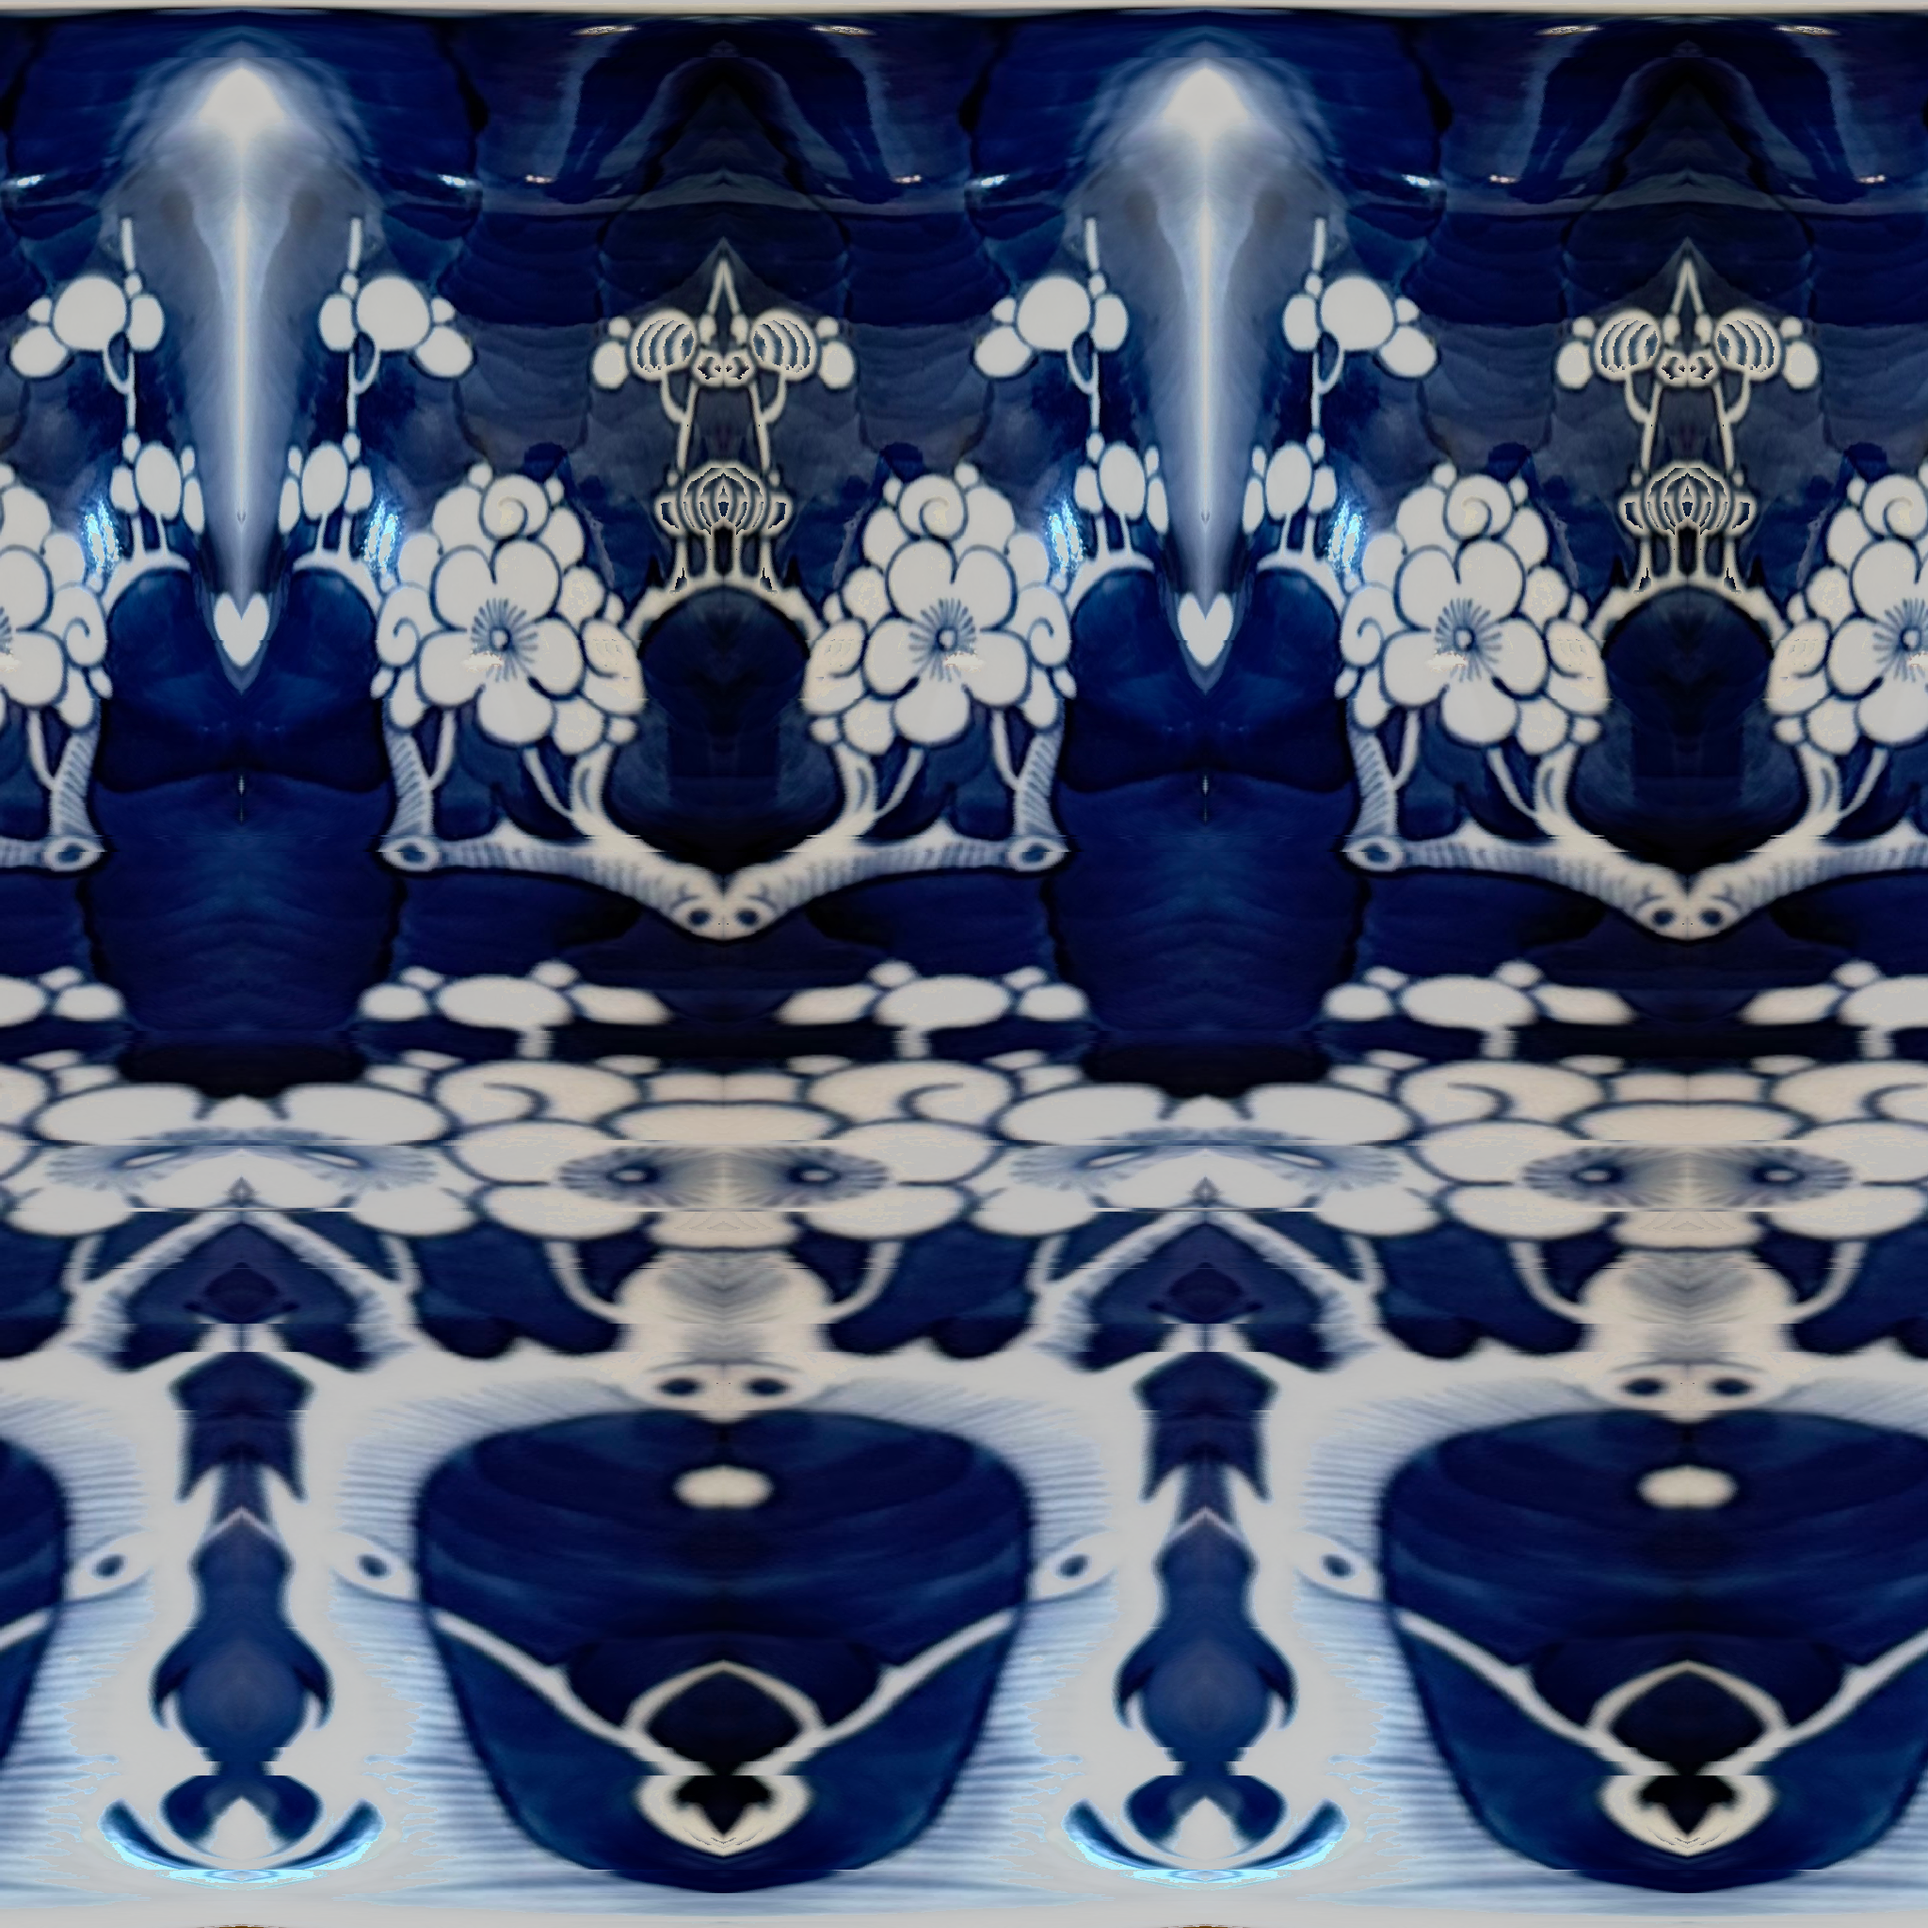
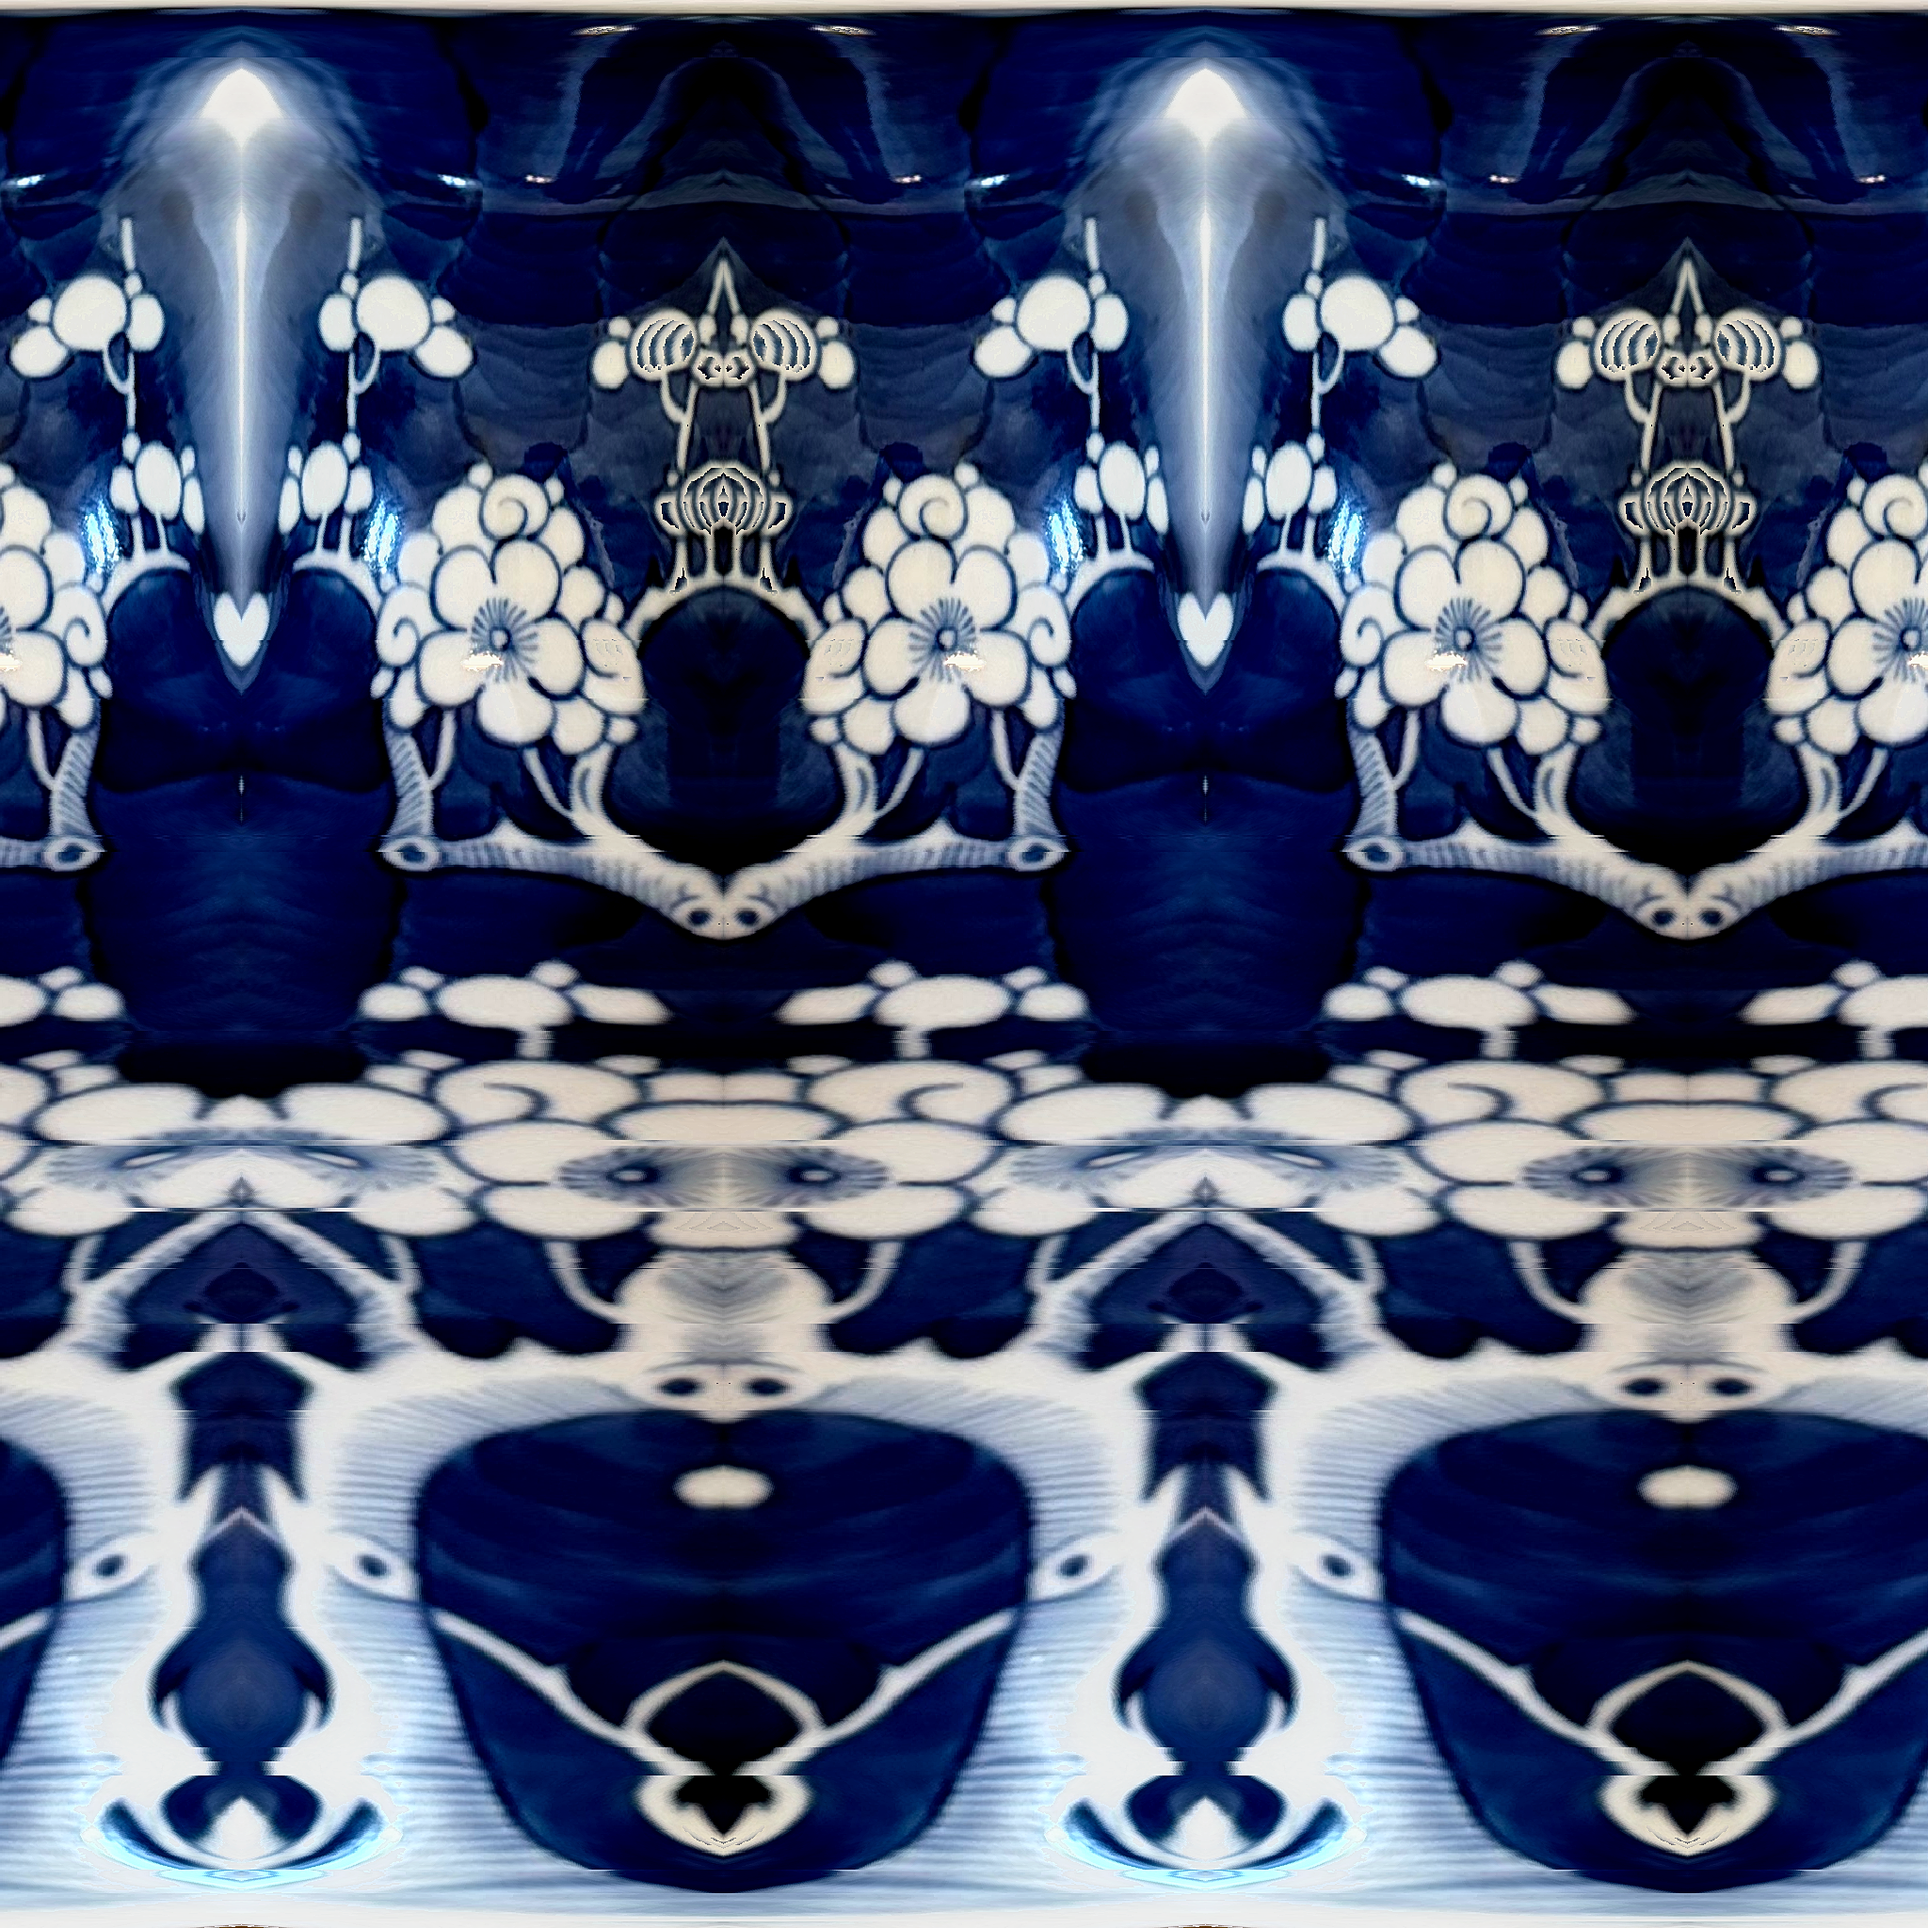
Sharpen vase: texture contrast+unsharp, 2x supersampling, less clearcoat haze

diff --git a/src/components/Scene.tsx b/src/components/Scene.tsx
@@ -42,15 +42,15 @@ function MuseumDisplay() {
 
   return (
     <group
-      position={isMobile ? [0, -0.39, -3] : [-2.2, 0.33, -3.5]}
-      scale={isMobile ? 0.85 : 1}
+      position={isMobile ? [0, -0.06, -3] : [-2.2, 0.73, -3.5]}
+      scale={isMobile ? 0.95 : 1.12}
     >
       {/* Cool overhead beam, like a night-lit museum piece. */}
       <spotLight
         position={[1.5, 7.5, 3]}
         target={spotTarget}
         color="#d8e4ff"
-        intensity={1.5}
+        intensity={1.8}
         angle={0.42}
         penumbra={0.8}
         decay={0}
@@ -68,7 +68,7 @@ export default function Scene() {
     <Canvas
       camera={{ position: [0, 0, 10], fov: 45 }}
       gl={{ antialias: true, alpha: true, powerPreference: 'high-performance' }}
-      dpr={[1, 2]}
+      dpr={2}
     >
       {/* No fog: it would wash out the in-scene photo backdrop, and the
           baked depth-of-field in the image already carries the depth cue. */}

diff --git a/src/components/Vase.tsx b/src/components/Vase.tsx
@@ -77,11 +77,11 @@ export default function Vase() {
         <meshPhysicalMaterial
           ref={bodyMat}
           map={texture}
-          roughness={0.15}
+          roughness={0.18}
           metalness={0}
-          clearcoat={1}
-          clearcoatRoughness={0.08}
-          envMapIntensity={1}
+          clearcoat={0.6}
+          clearcoatRoughness={0.1}
+          envMapIntensity={0.7}
           emissive="#1a4aff"
           emissiveIntensity={0.03}
           side={THREE.DoubleSide}
